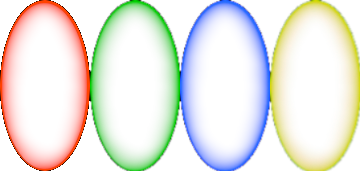
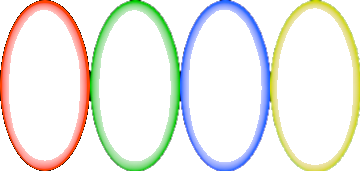
プレイヤーの色変え変更

diff --git a/Game_Jam_Winter/Object/Player.cpp b/Game_Jam_Winter/Object/Player.cpp
@@ -7,9 +7,7 @@
 #define TIME 15
 
 Player::Player() :image(NULL), location(0.0f), box_size(0.0f),
-angle(0.0f),
-speed(0.0f), barrier_count(0),
-barrier(nullptr)
+angle(0.0f),speed(0.0f)
 {
 
 }
@@ -24,14 +22,15 @@ Player::~Player()
 //初期化処理
 void Player::Initialize()
 {
+	nowAura = 0;
 	location = Vector2D(190.0f, HEIGHT - 100.0f);
 	box_size = Vector2D(31.0f, 60.0f);
 	speed = 3.0f;
-	barrier_count = 3;
 	keyCount = 0;
 
 	//画像の読み込み
 	image = LoadGraph("Resource/images/car1pol.bmp");
+	LoadDivGraph("Resource/images/aura.png", 4, 4, 1, 90, 171, aura);
 
 	//エラーチェック
 	if (image == -1)
@@ -47,30 +46,6 @@ void Player::Update()
 {
 	//移動処理
 	Movement();
-
-	//加減速処理
-	Acceleration();
-
-	//バリア処理
-	if (InputControl::GetButtonDown(XINPUT_BUTTON_B) && barrier_count > 0)
-	{
-		if (barrier == nullptr)
-		{
-			barrier_count--;
-			barrier = new Barrier;
-		}
-	}
-
-	//バリアが生成されていたら、更新を行う
-	if (barrier != nullptr)
-	{
-		//バリア時間が経過したか？していたら、削除する
-		if (barrier->IsFinished(this->speed))
-		{
-			delete barrier;
-			barrier = nullptr;
-		}
-	}
 }
 
 //移動処理
@@ -93,7 +68,6 @@ void Player::Movement()
 		move += Vector2D(130.0f, 0.0f);
 		keyCount = 0;
 	}
-
 	location += move;
 
 	//画面外に行かないように制限する
@@ -102,6 +76,13 @@ void Player::Movement()
 	{
 		location -= move;
 	}
+
+	//オーラ切り替え
+	if (InputControl::GetButton(XINPUT_BUTTON_B)) nowAura = 0;
+	if (InputControl::GetButton(XINPUT_BUTTON_A)) nowAura = 1;
+	if (InputControl::GetButton(XINPUT_BUTTON_X)) nowAura = 2;
+	if (InputControl::GetButton(XINPUT_BUTTON_Y)) nowAura = 3;
+
 }
 
 
@@ -117,16 +98,36 @@ void Player::Draw()
 	//DrawLine(b, 0, b, 600, 0xff0000, 4);
 	//DrawLine(c, 0, c, 600, 0xff0000, 4);
 	//DrawLine(d, 0, d, 600, 0xff0000, 4);
+
+
 	//プレイヤー画像の描画
 	DrawRotaGraphF(location.x, location.y, 1.0f, angle, image, TRUE);
 	//当たり判定用
 	DrawBox(location.x - box_size.x, location.y - box_size.y, 
 		location.x + box_size.x, location.y + box_size.y, 0xffffff, FALSE);
 
-	//バリアが生成されていたら、描画を行う
-	if (barrier != nullptr)
+	int x = 45;
+	int y = 85;
+	switch (nowAura)
 	{
-		barrier->Draw(this->location);
+	case 0:
+		DrawGraph(location.x - x, location.y - y, aura[0], TRUE);
+		break;
+
+	case 1:
+		DrawGraph(location.x - x, location.y - y, aura[1], TRUE);
+		break;
+
+	case 2:
+		DrawGraph(location.x - x, location.y - y, aura[2], TRUE);
+		break;
+
+	case 3:
+		DrawGraph(location.x - x, location.y - y, aura[3], TRUE);
+		break;
+
+	default:
+		break;
 	}
 }
 
@@ -136,12 +137,6 @@ void Player::Finalize()
 {
 	//読み込んだ画像を削除
 	DeleteGraph(image);
-
-	//バリアが生成されていたら、削除する
-	if (barrier != nullptr)
-	{
-		delete barrier;
-	}
 }
 
 //位置情報取得処理
@@ -162,34 +157,4 @@ Vector2D Player::GetBoxSize()const
 float Player::GetSpeed()const
 {
 	return this->speed;
-}
-
-
-//バリア枚数取得処理
-int Player::GetBarrierCount()const
-{
-	return this->barrier_count;
-}
-
-
-//バリアが有効か？を取得
-bool Player::IsBarrier()const
-{
-	return (barrier != nullptr);
-}
-
-//加減速処理
-void Player::Acceleration()
-{
-	//LBボタンが押されたら、減速する
-	if (InputControl::GetButtonDown(XINPUT_BUTTON_LEFT_SHOULDER) && speed > 1.0f)
-	{
-		speed -= 1.0f;
-	}
-
-	//RBボタンが押されたら、加速する
-	if (InputControl::GetButtonDown(XINPUT_BUTTON_RIGHT_SHOULDER) && speed < 10.0f)
-	{
-		speed += 1.0f;
-	}
 }

diff --git a/Game_Jam_Winter/Object/Player.h b/Game_Jam_Winter/Object/Player.h
@@ -7,14 +7,13 @@ class Player
 {
 private:
 	int image;          //画像データ
+	int aura[4];        //画像データ
+	int nowAura;        //今のオーラ
 	Vector2D location;  //位置座標
 	Vector2D box_size;  //当たり判定の大きさ
 	float angle;        //角度
 	float speed;        //速さ
-	int barrier_count;  //バリアの枚数
-	Barrier* barrier;   //バリア
-
-	int keyCount;        //入力クールタイム
+	int keyCount;       //入力クールタイム
 
 public:
 	Player();
@@ -29,10 +28,7 @@ public:
 	Vector2D GetLocation()const;     //位置座標取得
 	Vector2D GetBoxSize()const;      //当たり判定の大きさ取得
 	float GetSpeed()const;           //速さ取得処理
-	int GetBarrierCount()const;     //バリアの枚数取得
-	bool IsBarrier()const;           //バリア有効か？を取得
 private:
 	void Movement();                 //移動処理
-	void Acceleration();             //加速処理
 };
 

diff --git a/Game_Jam_Winter/Scene/GameMainScene.cpp b/Game_Jam_Winter/Scene/GameMainScene.cpp
@@ -150,12 +150,6 @@ void GameMainScene::Draw()const
     DrawFormatString(555, 220, GetColor(255, 255, 255), "%08d", mileage / 10);
     DrawFormatString(510, 240, GetColor(0, 0, 0), "スピード");
     DrawFormatString(555, 260, GetColor(255, 255, 255), "%08.1f", player->GetSpeed());
-
-    //バリア枚数の描画
-    for (int i = 0; i < player->GetBarrierCount(); i++)
-    {
-        DrawRotaGraph(520 + i * 25, 340, 0.2f, 0, barrier_image, TRUE, FALSE);
-    }
 }
 
 
@@ -231,12 +225,6 @@ void GameMainScene::ReadHighScore()
 //当たり判定処理（プレイヤーと敵）
 bool GameMainScene::IsHitCheck(Player* p, Enemy* e)
 {
-    //プレイヤーがバリアを張っていたら、当たり判定を無視する
-    if (p->IsBarrier())
-    {
-        return false;
-    }
-
     //敵情報がなければ、当たり判定を無視する
     if (e == nullptr)
     {
